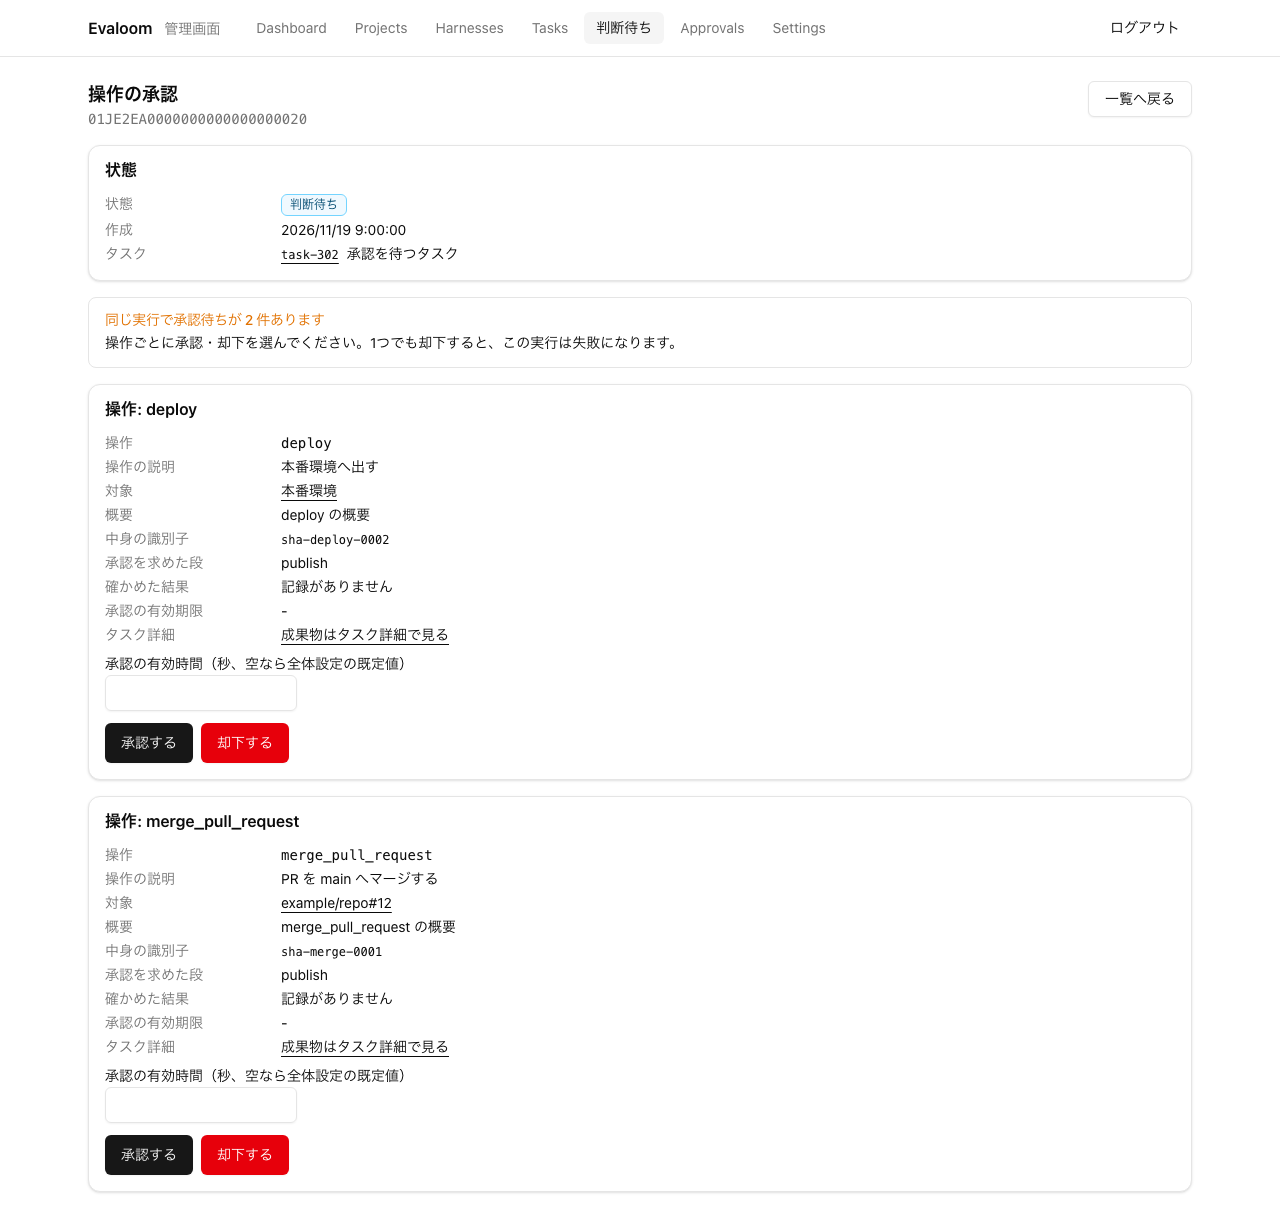
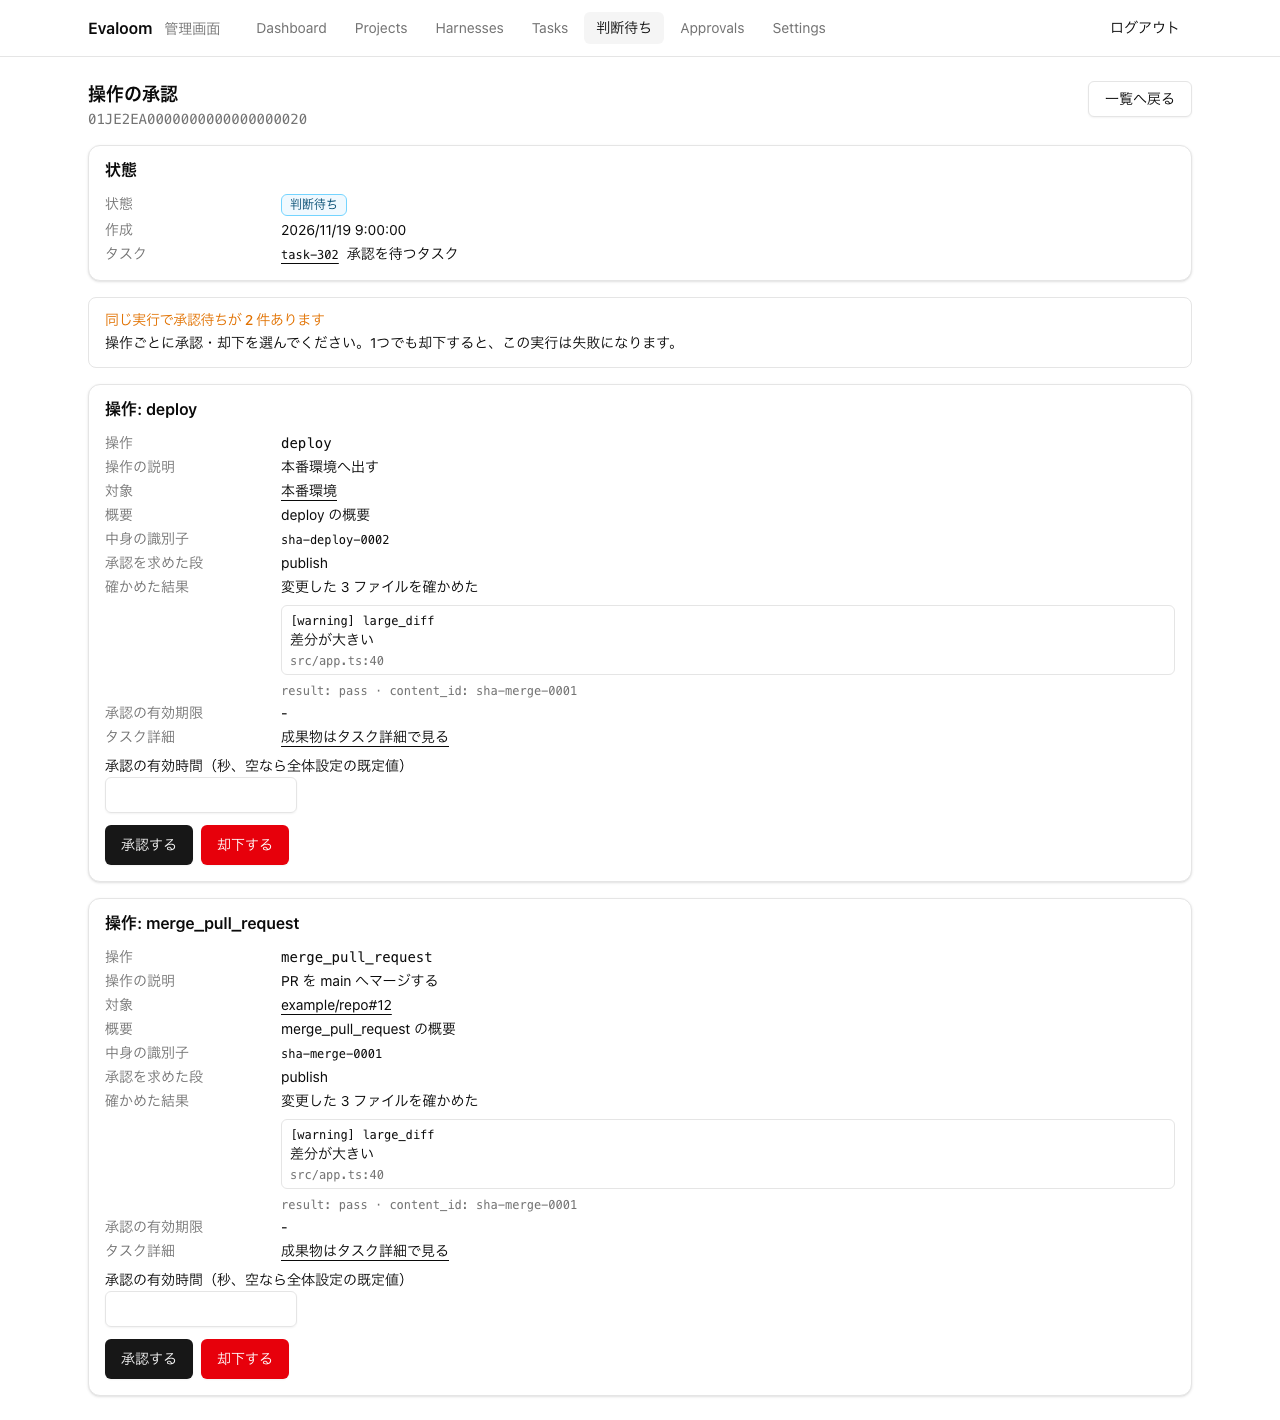
fix(decisions): evaloom-oxe.3 承認の判断待ちに確かめた結果を出す
GET /api/decisions/{id} の kind=approval の応答に、その Execution の check_results
（content_id が承認と一致する最新の行、無ければ最新の行）を checkResult として添える。
owner_decisions.detail の保存形式は変えない。画面の承認の詳細に summary と finding を出し、
Go テスト・unit・E2E で確かめる。

diff --git a/frontend/src/pages/decisions/decisions.test.tsx b/frontend/src/pages/decisions/decisions.test.tsx
@@ -137,6 +137,10 @@ describe('判断待ちの詳細', () => {
         target: { label: 'PR #7', url: 'https://example.com/pr/7' }, summary: 'マージする', contentId: 'sha-123', status: 'pending',
         invalidatedReason: null, decidedAt: null, expiresAt: null, createdAt: '2026-11-19T00:00:00Z',
       },
+      checkResult: {
+        id: '01JE2ECHECK000000000000001', result: 'pass', contentId: 'sha-123', summary: '2 ファイルを確かめた',
+        findings: [{ rule: 'no_secrets', severity: 'warning', message: '鍵に見える文字列', location: { path: 'b.go', line: 9 } }], createdAt: '2026-11-19T00:00:00Z',
+      },
     })
     const fake = renderAt(`/decisions/${ID}`, (request) => {
       if (request.url === `/api/decisions/${ID}` && request.method === 'GET') return json(200, approvalDecision)
@@ -149,6 +153,10 @@ describe('判断待ちの詳細', () => {
     expect(await screen.findByTestId('approval-content-id')).toHaveTextContent('sha-123')
     expect(screen.getByTestId('approval-target')).toHaveTextContent('PR #7')
     expect(await screen.findByText('PR をマージする')).toBeVisible()
+    const check = screen.getByTestId('approval-check-result')
+    expect(check).toHaveTextContent('2 ファイルを確かめた')
+    expect(check).toHaveTextContent('鍵に見える文字列')
+    expect(check).toHaveTextContent('b.go:9')
     await userEvent.type(screen.getByLabelText(/承認の有効時間/), '3600')
     await userEvent.click(screen.getByRole('button', { name: '承認する' }))
     expect(answers(fake)).toEqual([{ action: 'approve', contentId: 'sha-123', ttlSec: 3600 }])

diff --git a/frontend/src/pages/decisions/decision-detail-page.tsx b/frontend/src/pages/decisions/decision-detail-page.tsx
@@ -411,7 +411,17 @@ function ApprovalItem({ decision, open, disabled, submit, definition }: Approval
           </Field>
           <Field label="承認を求めた段">{approval?.requestedStage ?? detailText(decision.detail, 'requestedStage') ?? '-'}</Field>
           <Field label="確かめた結果">
-            {decision.detail && 'findings' in decision.detail ? <Findings findings={detailFindings(decision.detail)} /> : '記録がありません'}
+            {decision.checkResult ? (
+              <div className="grid gap-2" data-testid="approval-check-result">
+                <p>{decision.checkResult.summary ?? '-'}</p>
+                <Findings findings={decision.checkResult.findings ?? []} />
+                <span className="text-muted-foreground font-mono text-xs break-all">
+                  result: {decision.checkResult.result} · content_id: {decision.checkResult.contentId ?? '-'}
+                </span>
+              </div>
+            ) : (
+              '記録がありません'
+            )}
           </Field>
           <Field label="承認の有効期限">{formatTime(approval?.expiresAt)}</Field>
           <Field label="タスク詳細">

diff --git a/frontend/src/api/decisions.ts b/frontend/src/api/decisions.ts
@@ -85,8 +85,18 @@ export type DecisionApproval = {
   createdAt: string
 }
 
-/** GET /api/decisions/{id}。 */
-export type DecisionDetail = Decision & { approval?: DecisionApproval; routeProposal?: RouteProposal }
+/** check_results の行（02 3.4）。kind=approval の詳細に、その Execution の確かめた結果として付く（13 3.4）。 */
+export type CheckResult = {
+  id: string
+  result: 'pass' | 'fail' | 'blocked'
+  contentId: string | null
+  summary: string | null
+  findings: Finding[]
+  createdAt: string
+}
+
+/** GET /api/decisions/{id}。checkResult は記録が無ければ省かれる。 */
+export type DecisionDetail = Decision & { approval?: DecisionApproval; routeProposal?: RouteProposal; checkResult?: CheckResult }
 
 /** 02 5.6 の回答の形。 */
 export type DecisionAnswer =

diff --git a/backend/internal/api/decision_check_result_test.go b/backend/internal/api/decision_check_result_test.go
@@ -1,0 +1,64 @@
+package api
+
+import (
+	"encoding/json"
+	"strings"
+	"testing"
+)
+
+// Spec 13 3.4 / 01 5.1: the kind=approval decision detail carries the
+// Execution's check result (summary and findings) read from check_results.
+func TestApprovalDecisionDetailCarriesCheckResult(t *testing.T) {
+	f, token, id, _ := reportFixture(t)
+	approvalDeclarations(t, f, id)
+	attempt := runTo(t, f, token, id, "check")
+	finishStage(t, f, token, id, finished("check", attempt, programResult("check", "needs_approval", map[string]any{
+		"summary": "Two files changed",
+		"findings": []any{map[string]any{"rule": "no_secrets", "severity": "warning", "message": "Looks like a key",
+			"location": map[string]any{"path": "a.go", "line": 3}}},
+		"approvalRequests": []any{stageApprovalRequest("merge_pull_request")},
+	})))
+	requireState(t, f, id, "waiting_approval", "waiting_approval", "")
+	decision := openDecisionID(t, f, id, "approval")
+	status, body := approvalRequest(t, f, "GET", "/api/decisions/"+decision, "")
+	var detail struct {
+		CheckResult *struct {
+			Result    string  `json:"result"`
+			ContentID *string `json:"contentId"`
+			Summary   *string `json:"summary"`
+			Findings  []struct {
+				Rule, Severity, Message string
+				Location                *struct {
+					Path string
+					Line int
+				}
+			} `json:"findings"`
+		} `json:"checkResult"`
+	}
+	if status != 200 || json.Unmarshal(body, &detail) != nil || detail.CheckResult == nil {
+		t.Fatalf("detail=%d %s", status, body)
+	}
+	c := detail.CheckResult
+	if c.Result != "pass" || c.ContentID == nil || *c.ContentID != "content-1" || c.Summary == nil || *c.Summary != "Two files changed" ||
+		len(c.Findings) != 1 || c.Findings[0].Rule != "no_secrets" || c.Findings[0].Severity != "warning" ||
+		c.Findings[0].Message != "Looks like a key" || c.Findings[0].Location == nil || c.Findings[0].Location.Line != 3 {
+		t.Fatalf("checkResult=%s", body)
+	}
+
+	// A newer check row of another content does not replace the one whose
+	// content_id matches the approval's.
+	stageExec(t, f, `INSERT INTO check_results (id, execution_id, stage_run_id, result, content_id, summary, findings, created_at)
+		SELECT '01JZZZZZZZZZZZZZZZZZZZZZZZ', execution_id, stage_run_id, 'fail', 'other-content', 'Other', '[]', '2999-01-01T00:00:00Z'
+		FROM check_results WHERE execution_id = ?`, id)
+	status, body = approvalRequest(t, f, "GET", "/api/decisions/"+decision, "")
+	if status != 200 || !strings.Contains(string(body), `"summary":"Two files changed"`) {
+		t.Fatalf("matching content not preferred: %d %s", status, body)
+	}
+
+	// Without any check result the field is omitted.
+	stageExec(t, f, `DELETE FROM check_results WHERE execution_id = ?`, id)
+	status, body = approvalRequest(t, f, "GET", "/api/decisions/"+decision, "")
+	if status != 200 || strings.Contains(string(body), `"checkResult"`) {
+		t.Fatalf("without check result=%d %s", status, body)
+	}
+}

diff --git a/backend/internal/store/owner_decisions.go b/backend/internal/store/owner_decisions.go
@@ -67,3 +67,29 @@ func GetRouteProposalJSON(ctx context.Context, reader projectReader, id string) 
 		'createdAt',created_at,'finishedAt',finished_at) FROM route_proposals WHERE id=?`, id).Scan(&value)
 	return json.RawMessage(value), err
 }
+
+// CheckResult is one check_results row (spec 02 3.4) as the owner decision
+// detail shows it (spec 13 3.4, kind=approval).
+type CheckResult struct {
+	ID        string          `json:"id"`
+	Result    string          `json:"result"`
+	ContentID *string         `json:"contentId"`
+	Summary   *string         `json:"summary"`
+	Findings  json.RawMessage `json:"findings"`
+	CreatedAt string          `json:"createdAt"`
+}
+
+// GetDecisionCheckResult reads the check result an approval decision is shown
+// with: the newest check_results row of the Execution whose content_id equals
+// the approval's content_id, or else the newest row of the Execution. Spec 02
+// does not link check_results to approvals, so the content_id match is a
+// preference rather than a requirement. sql.ErrNoRows means none was recorded.
+func GetDecisionCheckResult(ctx context.Context, reader projectReader, executionID, contentID string) (CheckResult, error) {
+	var r CheckResult
+	var findings string
+	err := reader.QueryRowContext(ctx, `SELECT id, result, content_id, summary, findings, created_at FROM check_results
+		WHERE execution_id = ? ORDER BY (content_id IS NOT NULL AND content_id = ?) DESC, created_at DESC, id DESC LIMIT 1`,
+		executionID, contentID).Scan(&r.ID, &r.Result, &r.ContentID, &r.Summary, &findings, &r.CreatedAt)
+	r.Findings = json.RawMessage(findings)
+	return r, err
+}

diff --git a/backend/internal/api/decisions.go b/backend/internal/api/decisions.go
@@ -68,6 +68,9 @@ type decisionDetailView struct {
 	store.OwnerDecision
 	Approval      *approvalView   `json:"approval,omitempty"`
 	RouteProposal json.RawMessage `json:"routeProposal,omitempty"`
+	// CheckResult is the Execution's check result shown with kind=approval
+	// (spec 13 3.4, 01 5.1 "finding"); omitted when none was recorded.
+	CheckResult *store.CheckResult `json:"checkResult,omitempty"`
 }
 
 func getDecision(db *sql.DB, logger *slog.Logger) http.HandlerFunc {
@@ -92,6 +95,15 @@ func getDecision(db *sql.DB, logger *slog.Logger) http.HandlerFunc {
 				var base approvalView
 				base, err = newApprovalView(approval)
 				view.Approval = &base
+			}
+			if err == nil {
+				var check store.CheckResult
+				check, err = store.GetDecisionCheckResult(r.Context(), tx, approval.ExecutionID, approval.ContentVersion)
+				if err == nil {
+					view.CheckResult = &check
+				} else if errors.Is(err, sql.ErrNoRows) {
+					err = nil
+				}
 			}
 		}
 		if err == nil && decision.Kind == "route" && decision.SubjectID != nil {
